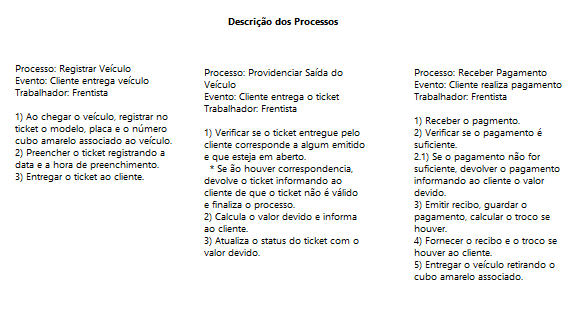
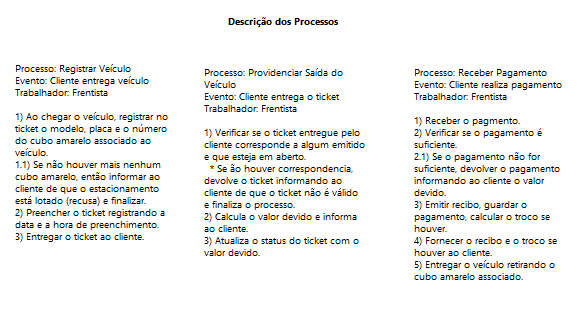
Add files via upload

Changed region(s): [[0.0, 0.4272, 0.3077, 0.769]]

diff --git a/EARoot/EA1/EA1/EA1/EA1/EA36.htm b/EARoot/EA1/EA1/EA1/EA1/EA36.htm
@@ -42,7 +42,7 @@ function nameClassifier(name, separator)
 		</tr>
 		<tr>
 			<td class="ObjectDetailsTopic">Modified:</td>
-			<td class="ObjectDetailsValue">30/05/2019 14:00:41</td>
+			<td class="ObjectDetailsValue">02/06/2019 11:50:26</td>
 		</tr>
 		<tr style="height: 10px"><td colspan="2"></td></tr>
 		<tr>
@@ -94,7 +94,7 @@ function nameClassifier(name, separator)
 			<td class="ObjectDetailsValue"><a href="../../../EA2/EA46.htm">2.	(2, 0) Apresente a descrição de cada processo dos DFDs Essenciais obtidos na questão 1.</a></td>
 		</tr>
 	</table>
-	<div class="ObjectDetailsNotes">Processo: Registrar Veículo&lt;br/&gt;Evento: Cliente entrega veículo&lt;br/&gt;Trabalhador: Frentista&lt;br/&gt;&lt;br/&gt;1) Ao chegar o veículo, registrar no ticket o modelo, placa e o número cubo amarelo associado ao veículo.&lt;br/&gt;2) Preencher o ticket registrando a data e a hora de preenchimento.&lt;br/&gt;3) Entregar o ticket ao cliente.&lt;p/&gt;</div>
+	<div class="ObjectDetailsNotes">Processo: Registrar Veículo&lt;br/&gt;Evento: Cliente entrega veículo&lt;br/&gt;Trabalhador: Frentista&lt;br/&gt;&lt;br/&gt;1) Ao chegar o veículo, registrar no ticket o modelo, placa e o número do cubo amarelo associado ao veículo.&lt;br/&gt;1.1) Se não houver mais nenhum cubo amarelo, então informar ao cliente de que o estacionamento está lotado (recusa) e finalizar.&lt;br/&gt;2) Preencher o ticket registrando a data e a hora de preenchimento.&lt;br/&gt;3) Entregar o ticket ao cliente.&lt;p/&gt;</div>
 
 <div class="pageFooter"></div>
  

diff --git a/EARoot/EA1/EA2/EA46.htm b/EARoot/EA1/EA2/EA46.htm
@@ -36,9 +36,9 @@ function nameClassifier(name, separator)
 <img src="EA47.png" usemap="#EA47" border="0" />
 
 <MAP NAME="EA47">
+<area shape="rect" coords="10,57,176,187" href="../EA1/EA1/EA1/EA36.htm" target="_self">
 <area shape="rect" coords="409,61,575,287" href="../EA1/EA1/EA2/EA41.htm" target="_self">
 <area shape="rect" coords="199,61,365,263" href="../EA1/EA1/EA2/EA42.htm" target="_self">
-<area shape="rect" coords="10,57,176,199" href="../EA1/EA1/EA1/EA36.htm" target="_self">
 <area shape="rect" coords="223,10,341,30" href="EA49.htm" target="_self">
 </MAP>
 

diff --git a/EARoot/EA1/EA1/EA1/EA1/EA33.htm b/EARoot/EA1/EA1/EA1/EA1/EA33.htm
@@ -51,7 +51,7 @@ function nameClassifier(name, separator)
 		</tr>
 		<tr>
 			<td width="15%" class="ObjectDetailsTopic">Modified:</td>
-			<td width="85%" class="ObjectDetailsValue">30/05/2019 12:58:59</td>
+			<td width="85%" class="ObjectDetailsValue">02/06/2019 11:48:01</td>
 		</tr>
 		<tr style="padding-top: 10px;">
 			<td width="15%" class="ObjectDetailsTopic"><img src="../../../../../images/plus03.gif" align="absmiddle" id="proj" onclick="parent.toggleData(this.id)" />Project:</td>

diff --git a/EARoot/EA1/EA4/EA61.htm b/EARoot/EA1/EA4/EA61.htm
@@ -2,7 +2,7 @@
 <html xmlns="http://www.w3.org/1999/xhtml">
 <head>
 <meta http-equiv="Content-Type" content="text/html; charset=UTF-8" />
-<title>Modelo de Veículo</title>
+<title>4.	(2,0) Apresente o Modelo Conceitual correspondente aos Depósitos de Dados utilizados nos DFDs Essenciais obtidos na Questão 1.::Modelo de Veículo</title>
 <link href="../../../css/ea.css" rel="stylesheet" type="text/css" />
 <script>
 function initPage(src) {	

diff --git a/EARoot/EA1/EA4/EA59.htm b/EARoot/EA1/EA4/EA59.htm
@@ -2,7 +2,7 @@
 <html xmlns="http://www.w3.org/1999/xhtml">
 <head>
 <meta http-equiv="Content-Type" content="text/html; charset=UTF-8" />
-<title>Cubo Amarelo</title>
+<title>4.	(2,0) Apresente o Modelo Conceitual correspondente aos Depósitos de Dados utilizados nos DFDs Essenciais obtidos na Questão 1.::Cubo Amarelo</title>
 <link href="../../../css/ea.css" rel="stylesheet" type="text/css" />
 <script>
 function initPage(src) {	

diff --git a/EARoot/EA1/EA4/EA60.htm b/EARoot/EA1/EA4/EA60.htm
@@ -2,7 +2,7 @@
 <html xmlns="http://www.w3.org/1999/xhtml">
 <head>
 <meta http-equiv="Content-Type" content="text/html; charset=UTF-8" />
-<title>Lançamento</title>
+<title>4.	(2,0) Apresente o Modelo Conceitual correspondente aos Depósitos de Dados utilizados nos DFDs Essenciais obtidos na Questão 1.::Lançamento</title>
 <link href="../../../css/ea.css" rel="stylesheet" type="text/css" />
 <script>
 function initPage(src) {	

diff --git a/EARoot/EA1/EA4/EA62.htm b/EARoot/EA1/EA4/EA62.htm
@@ -2,7 +2,7 @@
 <html xmlns="http://www.w3.org/1999/xhtml">
 <head>
 <meta http-equiv="Content-Type" content="text/html; charset=UTF-8" />
-<title>Preço</title>
+<title>4.	(2,0) Apresente o Modelo Conceitual correspondente aos Depósitos de Dados utilizados nos DFDs Essenciais obtidos na Questão 1.::Preço</title>
 <link href="../../../css/ea.css" rel="stylesheet" type="text/css" />
 <script>
 function initPage(src) {	

diff --git a/EARoot/EA1/EA4/EA63.htm b/EARoot/EA1/EA4/EA63.htm
@@ -2,7 +2,7 @@
 <html xmlns="http://www.w3.org/1999/xhtml">
 <head>
 <meta http-equiv="Content-Type" content="text/html; charset=UTF-8" />
-<title>Ticket</title>
+<title>4.	(2,0) Apresente o Modelo Conceitual correspondente aos Depósitos de Dados utilizados nos DFDs Essenciais obtidos na Questão 1.::Ticket</title>
 <link href="../../../css/ea.css" rel="stylesheet" type="text/css" />
 <script>
 function initPage(src) {	

diff --git a/EARoot/EA1/EA4/EA58.htm b/EARoot/EA1/EA4/EA58.htm
@@ -2,7 +2,7 @@
 <html xmlns="http://www.w3.org/1999/xhtml">
 <head>
 <meta http-equiv="Content-Type" content="text/html; charset=UTF-8" />
-<title>Caixa</title>
+<title>4.	(2,0) Apresente o Modelo Conceitual correspondente aos Depósitos de Dados utilizados nos DFDs Essenciais obtidos na Questão 1.::Caixa</title>
 <link href="../../../css/ea.css" rel="stylesheet" type="text/css" />
 <script>
 function initPage(src) {	
